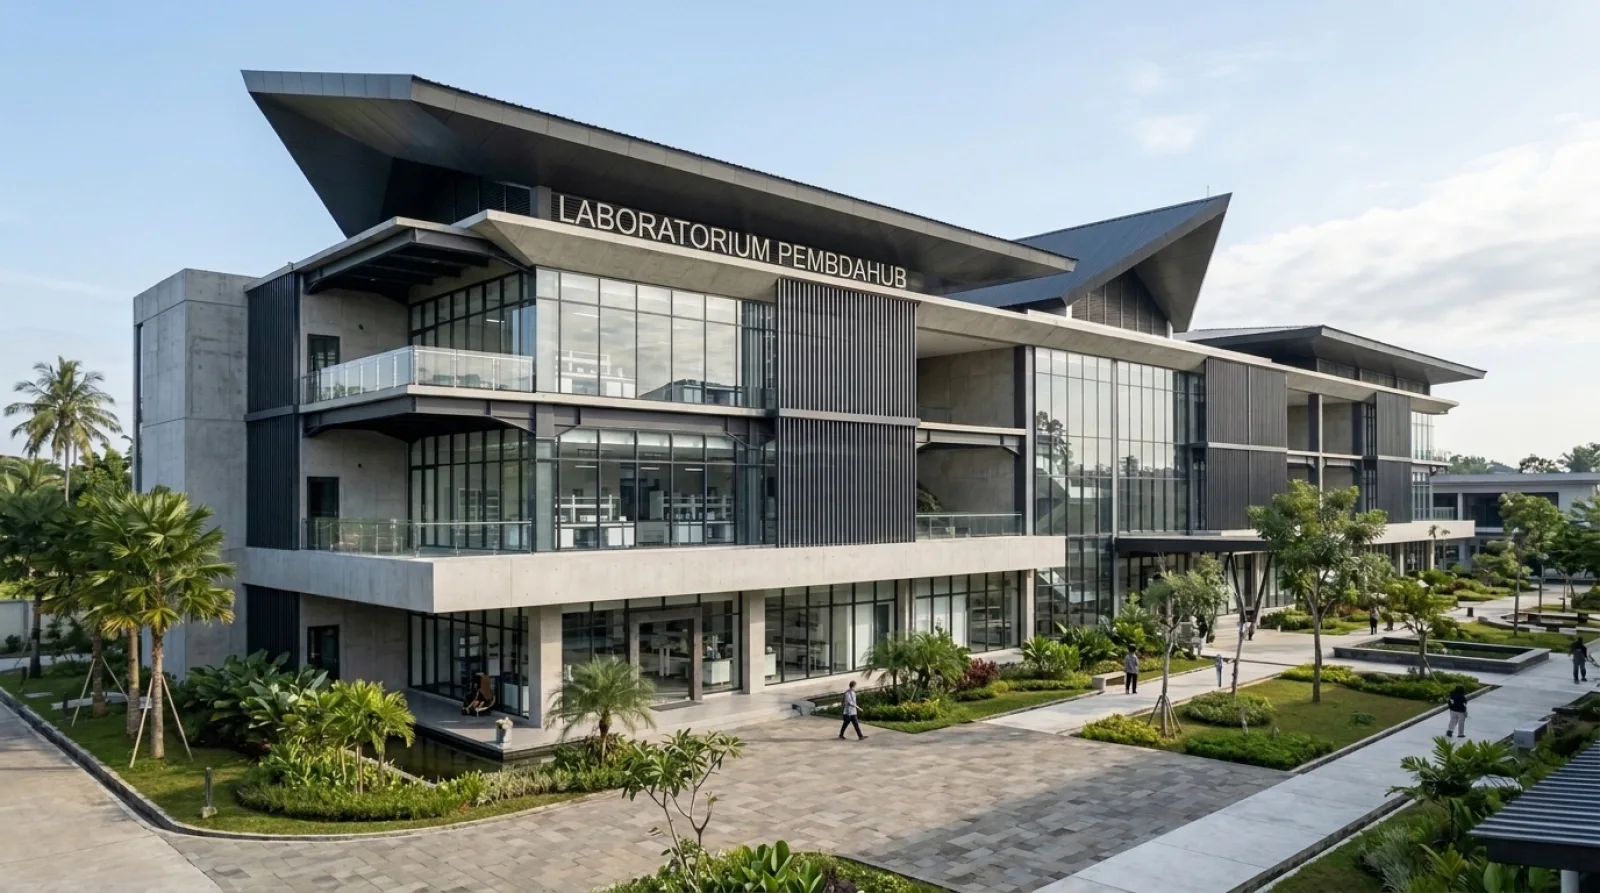
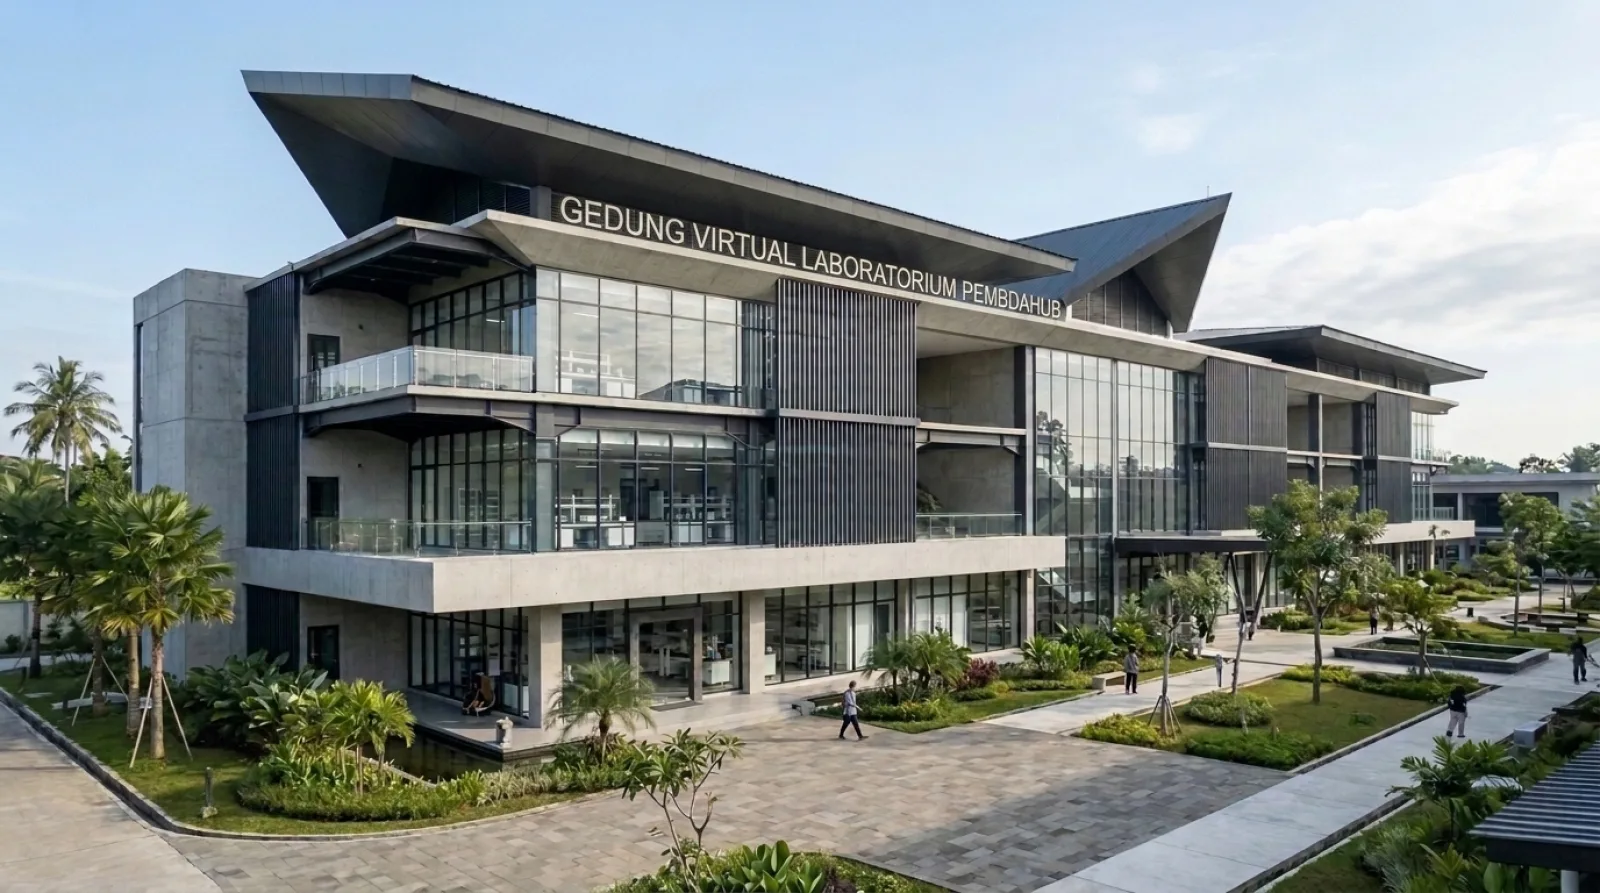
feat(simlab): add Gedung Virtual branding to building signage and UI

Changed region(s): [[0.3438, 0.2116, 0.6875, 0.3628]]

diff --git a/resources/views/simlab/index.blade.php b/resources/views/simlab/index.blade.php
@@ -4,7 +4,7 @@
     <meta charset="UTF-8">
     <meta name="viewport" content="width=device-width, initial-scale=1.0">
     <meta name="csrf-token" content="{{ csrf_token() }}">
-    <title>PembdaHUB — Kompleks Laboratorium Riset &amp; Vokasi</title>
+    <title>PembdaHUB — Gedung Virtual Kompleks Laboratorium Riset &amp; Vokasi</title>
     <link rel="preconnect" href="https://fonts.googleapis.com">
     <link rel="preconnect" href="https://fonts.gstatic.com" crossorigin>
     <link href="https://fonts.googleapis.com/css2?family=Public+Sans:wght@400;500;600;700;800&family=JetBrains+Mono:wght@500;700&display=swap" rel="stylesheet">
@@ -25,7 +25,7 @@
             inset: 0;
             z-index: -1;
             pointer-events: none;
-            background-image: url('{{ asset("images/simlab-building-bg.webp") }}?v=20261127f');
+            background-image: url('{{ asset("images/simlab-building-bg.webp") }}?v=20261127g');
             background-size: cover;
             background-position: center 25%;
             background-repeat: no-repeat;
@@ -247,8 +247,8 @@
                         <i class="fas fa-microscope"></i>
                     </span>
                     <div class="min-w-0">
-                        <span class="font-extrabold tracking-tight text-sm block leading-none">PembdaHUB Kompleks Laboratorium</span>
-                        <span class="text-[11px] text-slate-300 font-medium hidden sm:block mt-0.5">Institut Riset &amp; Praktikum Vokasi Nias</span>
+                        <span class="font-extrabold tracking-tight text-sm block leading-none">PembdaHUB Gedung Virtual Laboratorium</span>
+                        <span class="text-[11px] text-slate-300 font-medium hidden sm:block mt-0.5">Kompleks Riset &amp; Praktikum Vokasi Nias</span>
                     </div>
                 </a>
 
@@ -271,7 +271,7 @@
                         @click="viewMode === 'lobby' ? enterRoom(activeRoom === 'all' ? 'fisika' : activeRoom) : backToLobby()"
                         class="px-3 py-1.5 rounded-md bg-slate-800 hover:bg-slate-700 text-white border border-slate-700 text-xs font-bold transition inline-flex items-center gap-1.5">
                     <i class="fas" :class="viewMode === 'lobby' ? 'fa-door-open text-sky-400' : 'fa-building text-sky-400'"></i>
-                    <span class="hidden md:inline" x-text="viewMode === 'lobby' ? 'Masuk Meja Riset' : 'Direktori Gedung'"></span>
+                    <span class="hidden md:inline" x-text="viewMode === 'lobby' ? 'Masuk Meja Riset' : 'Direktori Gedung Virtual'"></span>
                 </button>
 
                 @if($isInstructor)
@@ -300,17 +300,17 @@
             <!-- Header Direktori Arsitektural + Fasad Gedung Laboratorium PembdaHUB -->
             <div class="bg-white/95 backdrop-blur-[2px] border border-slate-300 rounded-lg overflow-hidden">
                 <div class="h-40 sm:h-52 w-full relative overflow-hidden border-b border-slate-300 bg-slate-900">
-                    <img src="{{ asset('images/simlab-building-bg.webp') }}?v=20261127f"
-                         alt="Gedung Laboratorium PembdaHUB"
+                    <img src="{{ asset('images/simlab-building-bg.webp') }}?v=20261127g"
+                         alt="Gedung Virtual Laboratorium PembdaHUB"
                          class="w-full h-full object-cover object-center opacity-90">
                     <div class="absolute bottom-3 left-4 bg-slate-900/90 text-white border border-slate-700 px-3 py-1.5 rounded text-[11px] font-mono-lab font-bold">
-                        GEDUNG LABORATORIUM DISIPLIN ILMU &amp; VOKASI · YAYASAN PERGURUAN PEMBDA NIAS
+                        GEDUNG VIRTUAL LABORATORIUM DISIPLIN ILMU &amp; VOKASI · YAYASAN PERGURUAN PEMBDA NIAS
                     </div>
                 </div>
                 <div class="px-5 py-4 flex flex-col lg:flex-row lg:items-center justify-between gap-4">
                     <div class="max-w-3xl">
                         <h1 class="text-xl sm:text-2xl font-extrabold tracking-tight text-slate-900">
-                            Gedung Laboratorium Disiplin Ilmu PembdaHUB
+                            Gedung Virtual Laboratorium Disiplin Ilmu PembdaHUB
                         </h1>
                         <p class="text-xs sm:text-sm text-slate-600 mt-1 leading-relaxed">
                             Enam sayap laboratorium khusus yang masing-masing dipimpin oleh Profesor Kepala Lab beserta instrumen praktikum interaktif, SOP kerja, landasan teori, dan uji pemahaman HOTS.
@@ -400,7 +400,7 @@
                     <button type="button" @click="backToLobby()"
                             class="px-3 py-1.5 rounded-md bg-slate-900 hover:bg-slate-800 text-white text-xs font-bold transition inline-flex items-center gap-1.5">
                         <i class="fas fa-arrow-left text-[10px]"></i>
-                        <span>Direktori Gedung</span>
+                        <span>Direktori Gedung Virtual</span>
                     </button>
                     <div class="h-5 w-px bg-slate-300 hidden sm:block"></div>
                     <div class="flex flex-wrap items-center gap-1">

diff --git a/resources/views/simlab/lab.blade.php b/resources/views/simlab/lab.blade.php
@@ -3,7 +3,7 @@
 <head>
     <meta charset="UTF-8">
     <meta name="viewport" content="width=device-width, initial-scale=1.0">
-    <title>{{ $lab->title }} - PembdaHUB Simulator Lab</title>
+    <title>{{ $lab->title }} - Gedung Virtual Lab PembdaHUB</title>
     <link rel="preconnect" href="https://fonts.googleapis.com">
     <link rel="preconnect" href="https://fonts.gstatic.com" crossorigin>
     <link href="https://fonts.googleapis.com/css2?family=Public+Sans:wght@400;500;600;700;800&family=JetBrains+Mono:wght@400;600;700&display=swap" rel="stylesheet">
@@ -24,7 +24,7 @@
             inset: 0;
             z-index: -1;
             pointer-events: none;
-            background-image: url('{{ asset("images/simlab-building-bg.webp") }}?v=20261127f');
+            background-image: url('{{ asset("images/simlab-building-bg.webp") }}?v=20261127g');
             background-size: cover;
             background-position: center 25%;
             background-repeat: no-repeat;
@@ -133,7 +133,7 @@
         <div class="max-w-[1600px] mx-auto px-4 sm:px-6 lg:px-8 h-14 flex items-center justify-between gap-3">
             <div class="flex items-center gap-3 min-w-0">
                 <a href="{{ route('simlab.index') }}" class="px-3 py-1.5 rounded-md bg-slate-800 hover:bg-slate-700 text-white border border-slate-700 text-xs font-bold transition shrink-0">
-                    <i class="fas fa-arrow-left mr-1"></i> Katalog Lab
+                    <i class="fas fa-arrow-left mr-1"></i> Gedung Virtual
                 </a>
                 <div class="min-w-0">
                     <div class="flex items-center gap-2 text-[11px] font-semibold text-slate-300">
